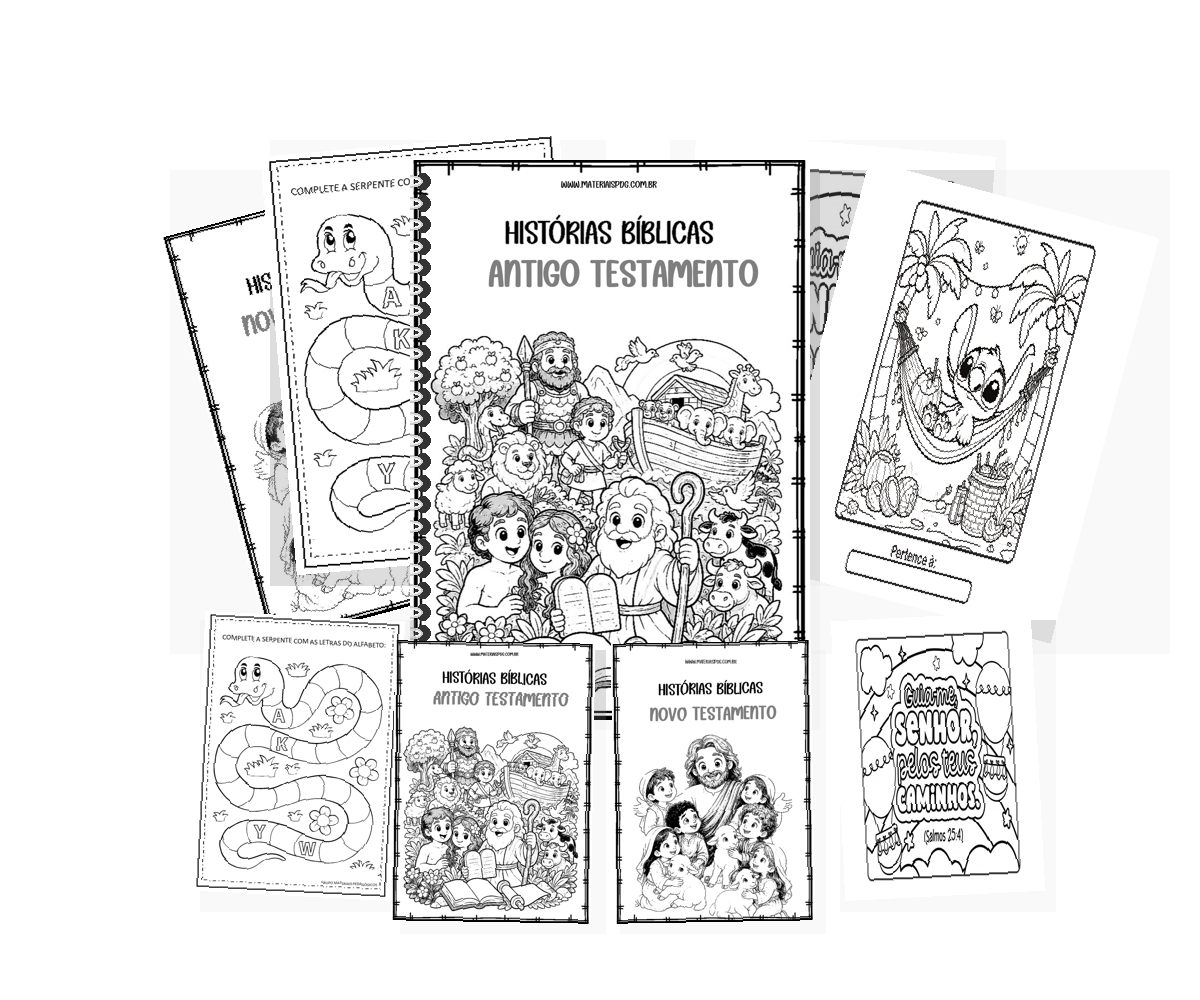
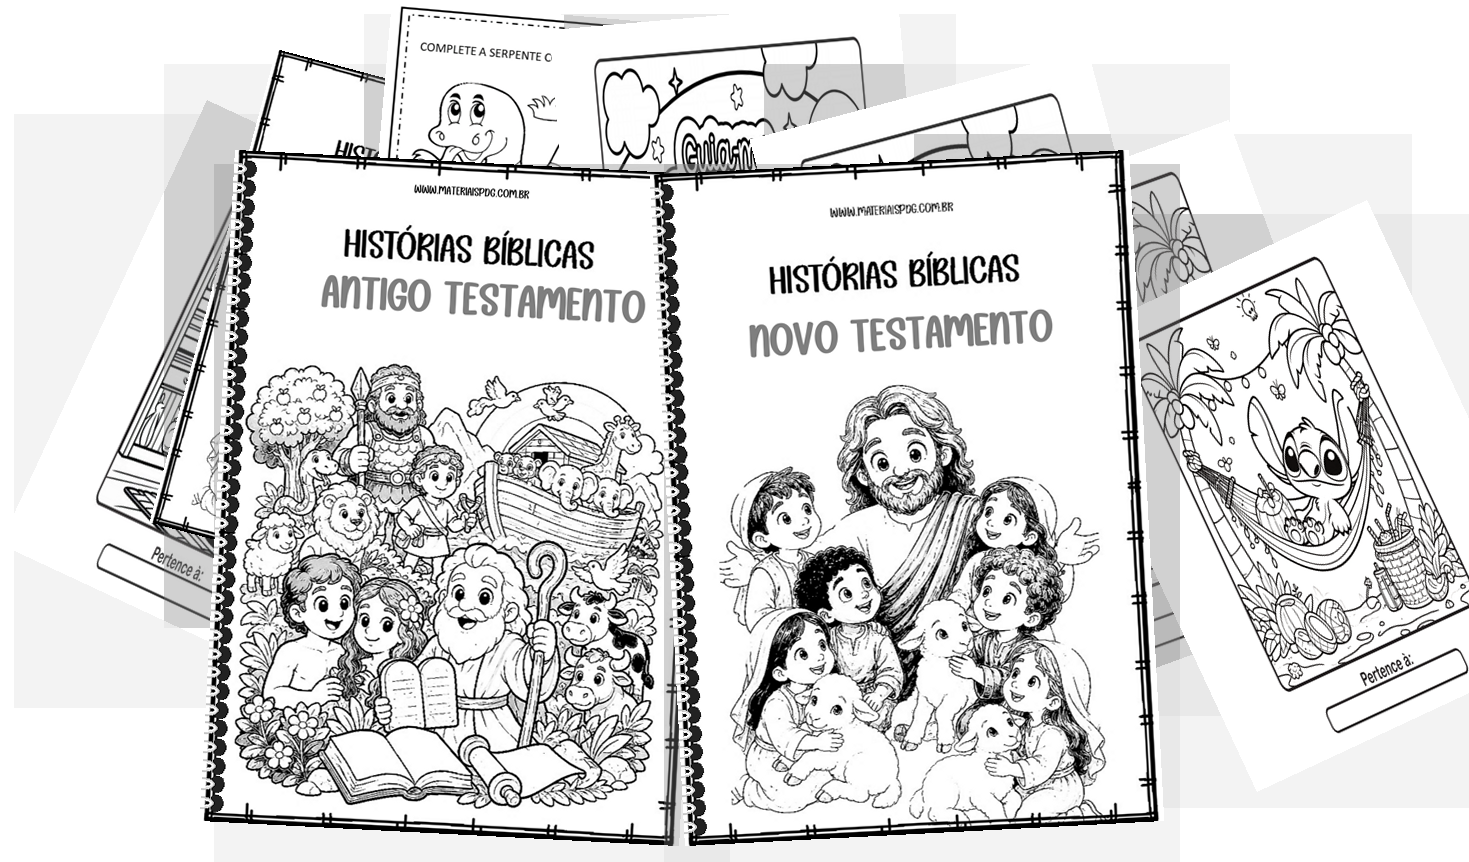
Update composite mockup: increase image max-width and re-render mockup to be much larger with both Antigo and Novo Testamento prominent in front

diff --git a/styles.css b/styles.css
@@ -308,7 +308,7 @@ img {
 
 .hero-image img {
     width: 100%;
-    max-width: 500px;
+    max-width: 800px;
     object-fit: contain;
     filter: drop-shadow(0 20px 30px rgba(0,0,0,0.15));
 }
